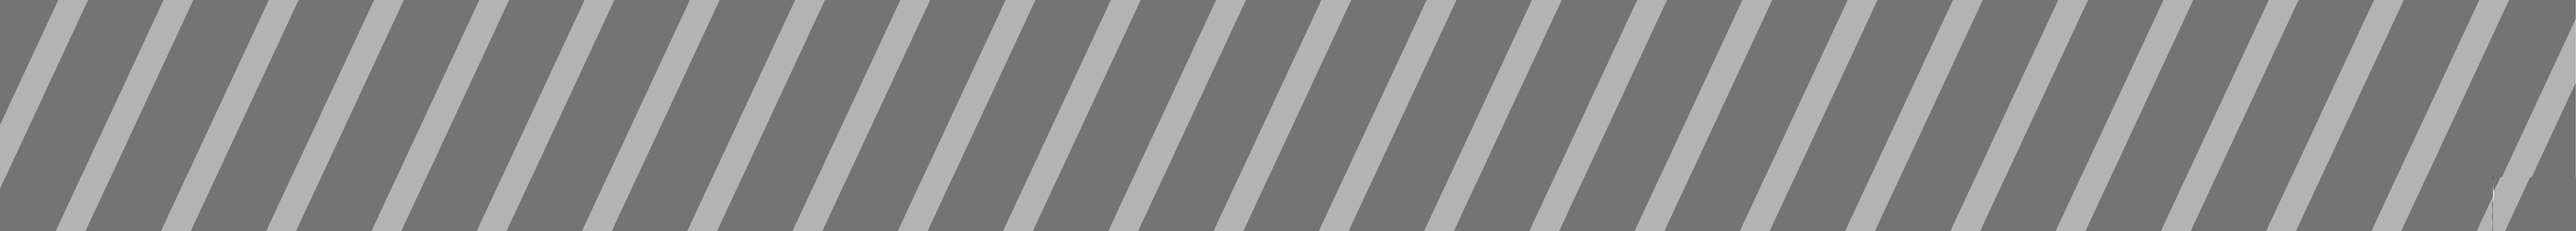
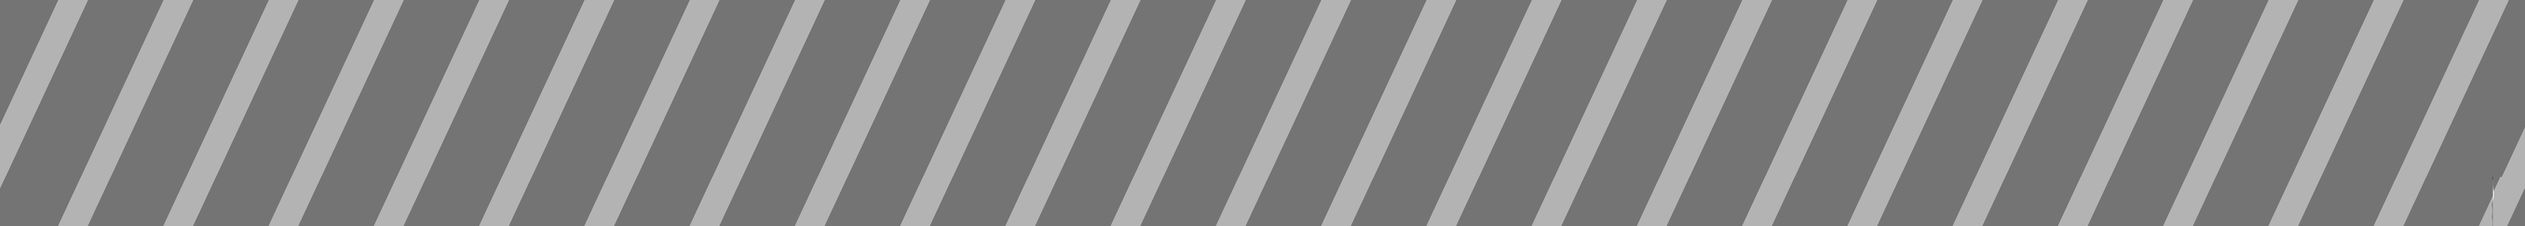
improvements

diff --git a/project/css/main.css b/project/css/main.css
@@ -146,7 +146,7 @@ nav #nav-items img {
 }
 
 #slideshow #imageCover {
-    /* backdrop-filter: blur(2.5px); */
+    /* backdrop-filter: blur(.5px); */
 }
 
 #imageShadow {
@@ -155,8 +155,8 @@ nav #nav-items img {
     left: 0;
     transform-origin: top left;
     height: 14em;
-    background-image: url(../img/ShadowMask1.png);
-    background-size: 800%;
+    background-image: url(../img/ShadowMask2.png);
+    background-size: 80%;
     z-index: 9;
 }
 
@@ -195,3 +195,46 @@ nav #nav-items img {
     justify-content: center;
     align-items: flex-start;
 }
+
+#welcomeBox {
+    /* border: .02em solid black; */
+    padding: .2em;
+    width: 100%;
+}
+
+/* Dropdown Menu */
+/* .dropdown {
+    position: relative;
+    display: inline-block;
+  }
+
+  .dropdown-content {
+    position: absolute;
+    top: 100%;
+    left: 0;
+    background: white;
+    min-width: 160px;
+    box-shadow: 0 2px 5px rgba(0,0,0,0.1);
+    opacity: 0;
+    transform: translateY(-10px);
+    transition: all 0.3s;
+    pointer-events: none;
+    border-radius: 0.5rem;
+  }
+
+  .dropdown:hover .dropdown-content {
+    opacity: 1;
+    transform: translateY(0);
+    pointer-events: auto;
+  }
+
+  .dropdown-content a {
+    color: #374151;
+    padding: 0.5rem 1rem;
+    text-decoration: none;
+    display: block;
+  }
+
+  .dropdown-content a:hover {
+    background: #f3f4f6;
+  } */

diff --git a/project/index.html b/project/index.html
@@ -53,6 +53,7 @@
             <div id="deviceNav">
                 <div id="welcomeBox">
                     <h2>Welcome to ExpertShop</h2>
+                    <p>What would you like to buy?</p>
                 </div>
 
                 <div id="btnDiv">
@@ -77,6 +78,16 @@
 </body>
 
 </html>
+
+<!-- 
+<div class="dropdown">
+    <button class="btn pulse">Dropdown</button>
+    <div class="dropdown-content">
+      <a href="#">Item 1</a>
+      <a href="#">Item 2</a>
+      <a href="#">Item 3</a>
+    </div>
+  </div> -->
 
 <!-- 
 - Shop
